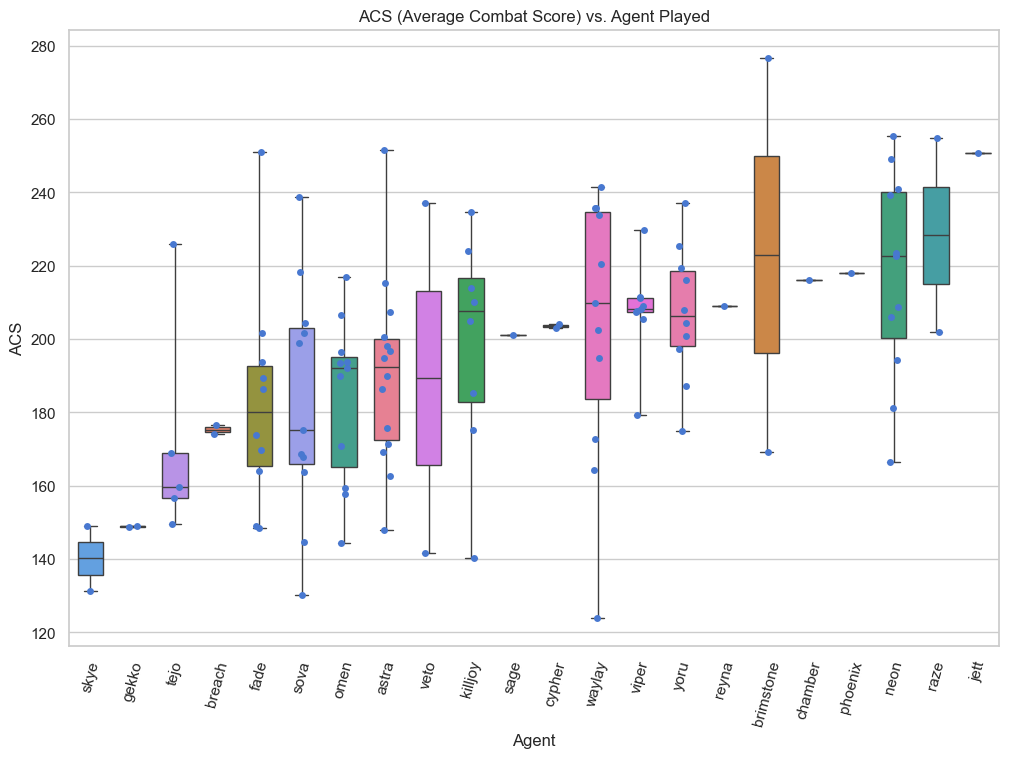
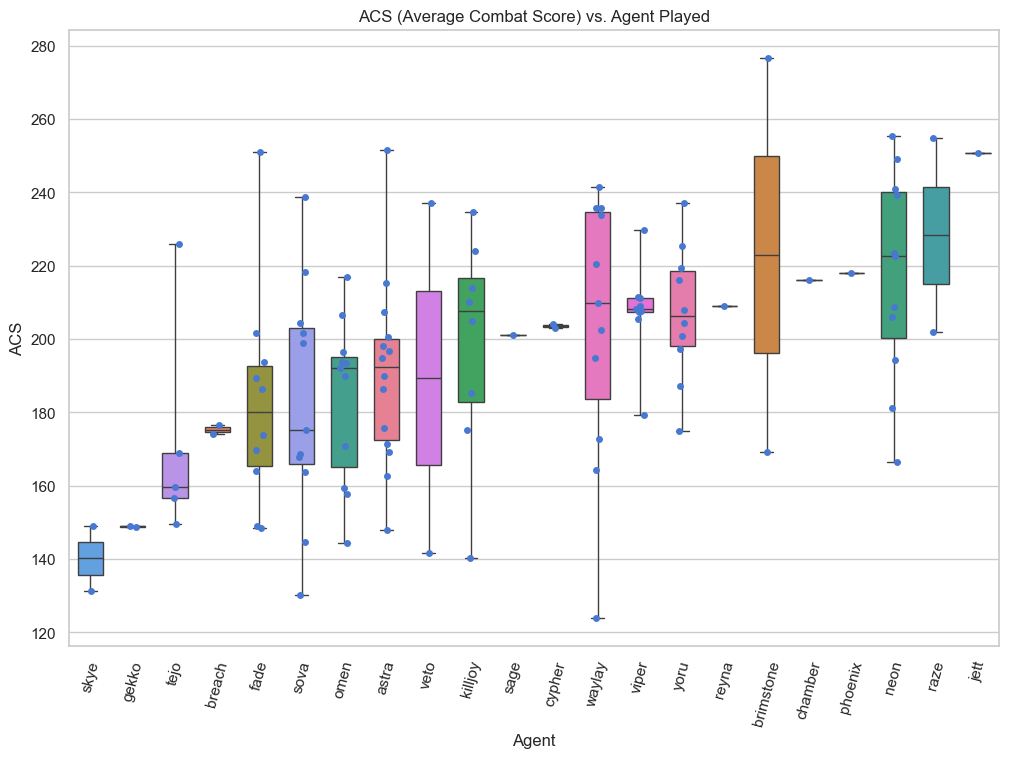
Changed savefig location to /graphs

diff --git a/project_code.py b/project_code.py
@@ -100,7 +100,7 @@ def plot_players_acs(player_data: pd.DataFrame) -> None:
     plt.xlabel('ACS (Average Combat Score)')
     plt.ylabel('Player')
     plt.tight_layout()
-    plt.savefig('players_acs.png', bbox_inches='tight')
+    plt.savefig('graphs/players_acs.png', bbox_inches='tight')
 
 
 def plot_acs_by_agent(data: pd.DataFrame, agent_data: pd.DataFrame) -> None:
@@ -119,7 +119,7 @@ def plot_acs_by_agent(data: pd.DataFrame, agent_data: pd.DataFrame) -> None:
     sns.stripplot(data=data, x="Agent", y="ACS")
     plt.xticks(rotation=75)
     plt.title("ACS (Average Combat Score) vs. Agent Played")
-    plt.savefig('acs_by_agent.png', bbox_inches='tight')
+    plt.savefig('graphs/acs_by_agent.png', bbox_inches='tight')
 
 
 def plot_kast_by_agent(data: pd.DataFrame, agent_data: pd.DataFrame) -> None:
@@ -138,7 +138,7 @@ def plot_kast_by_agent(data: pd.DataFrame, agent_data: pd.DataFrame) -> None:
     sns.stripplot(data=data, x="Agent", y="KAST%")
     plt.xticks(rotation=75)
     plt.title("KAST% vs. Agent Played")
-    plt.savefig('kast_by_agent.png', bbox_inches='tight')
+    plt.savefig('graphs/kast_by_agent.png', bbox_inches='tight')
 
 
 def plot_team_comp_heatmap(teamcomps: pd.DataFrame) -> None:
@@ -154,7 +154,7 @@ def plot_team_comp_heatmap(teamcomps: pd.DataFrame) -> None:
     plt.xlabel("Loser")
     plt.xticks(rotation=45)
     plt.title("Team Composition Wins vs Losses")
-    plt.savefig('team_comp_heatmap.png', bbox_inches='tight')
+    plt.savefig('graphs/team_comp_heatmap.png', bbox_inches='tight')
 
 
 def plot_team_wins_vs_losses(comp_data: pd.DataFrame) -> None:
@@ -180,7 +180,7 @@ def plot_team_wins_vs_losses(comp_data: pd.DataFrame) -> None:
     )
     g.fig.suptitle("Team Wins vs Losses by Composition")
     g.fig.subplots_adjust(top=0.95)
-    plt.savefig('team_wins_vs_losses.png', bbox_inches='tight')
+    plt.savefig('graphs/team_wins_vs_losses.png', bbox_inches='tight')
 
 
 def plot_agent_pick_vs_win(adata: pd.DataFrame) -> None:
@@ -203,7 +203,7 @@ def plot_agent_pick_vs_win(adata: pd.DataFrame) -> None:
     plt.xlabel('pick rate')
     plt.ylabel('win rate')
     plt.title('Agent Pick% vs Win% (Overall)')
-    plt.savefig('agent_pick_vs_win.png', bbox_inches='tight')
+    plt.savefig('graphs/agent_pick_vs_win.png', bbox_inches='tight')
 
 
 def plot_agent_winrate_by_map(adata: pd.DataFrame) -> None:
@@ -223,7 +223,7 @@ def plot_agent_winrate_by_map(adata: pd.DataFrame) -> None:
         linewidths=0.5
     )
     plt.title("Agent Win% by Map")
-    plt.savefig('agent_winrate_by_map.png', bbox_inches='tight')
+    plt.savefig('graphs/agent_winrate_by_map.png', bbox_inches='tight')
 
 
 def main():
